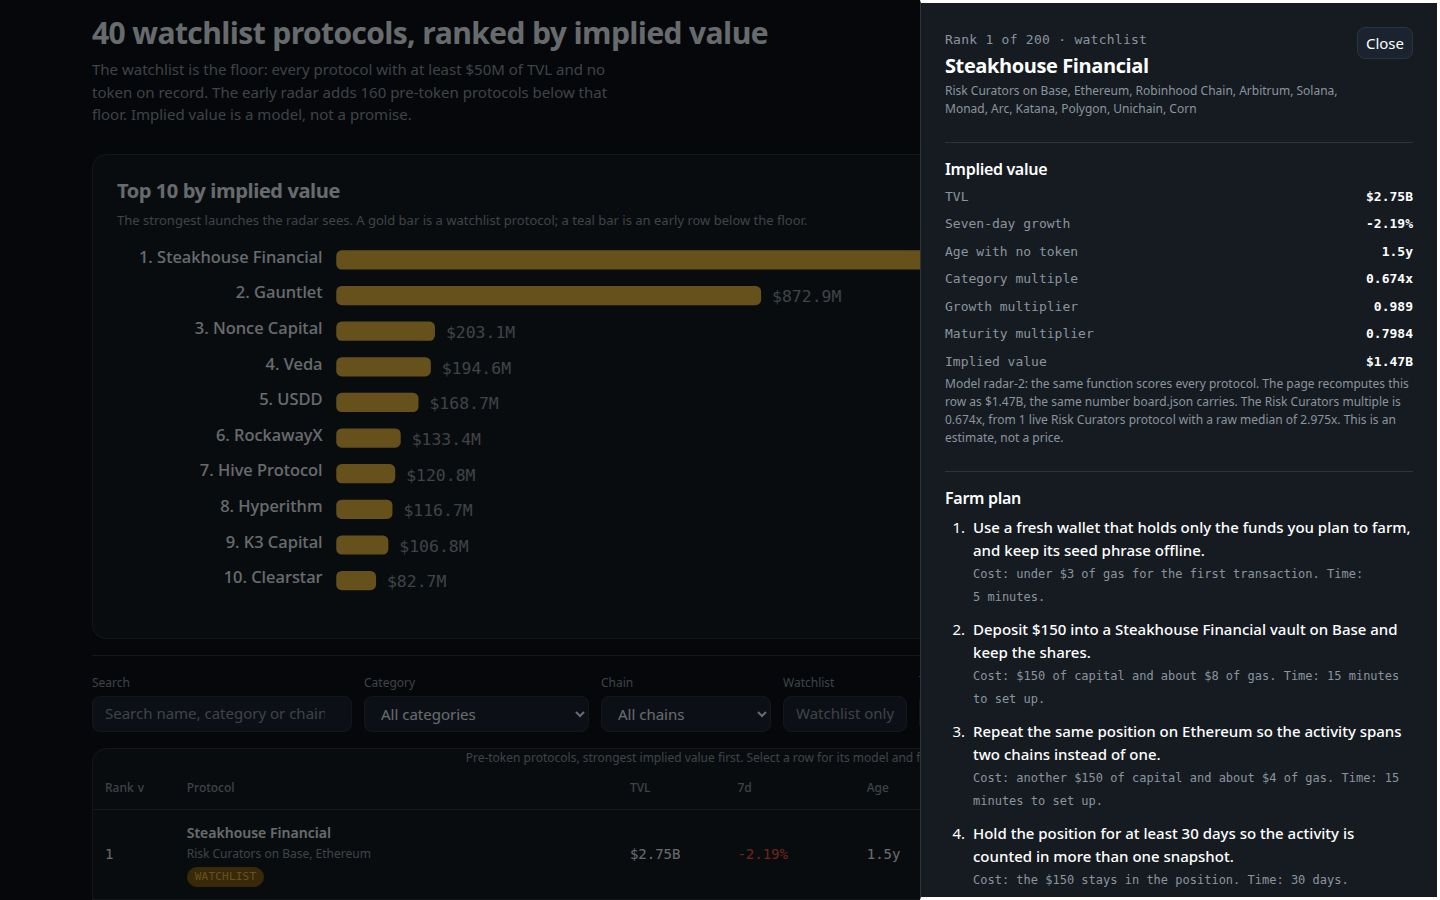
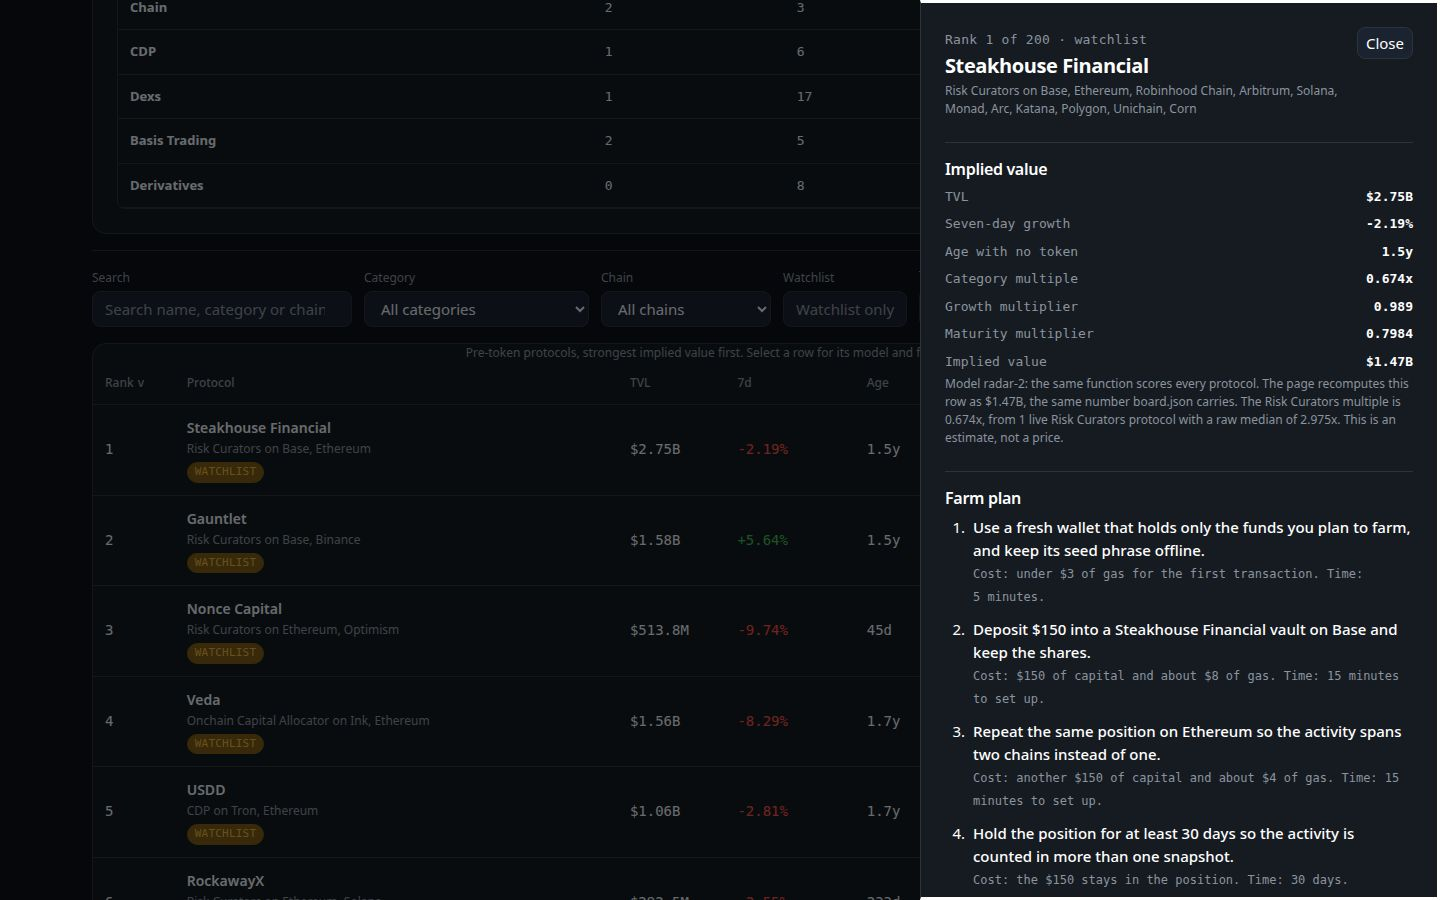
Add sector concentration summary, reading guidance, and methodology notes
- Dashboard: a 'Where the watchlist concentrates' sector table
  (watchlist/early counts and combined implied value per sector),
  and a 'Reading the board' note in the model panel on how to use
  the ranking and what it cannot promise.
- index.html rewritten with a description, dark color-scheme and
  a noscript fallback pointing at board.json.
- README: 'How to read the ranking' and 'Limitations' sections.

diff --git a/dashboard/app.js b/dashboard/app.js
@@ -231,6 +231,48 @@
     );
   }
 
+  // The watchlist, grouped by sector: how many of the forty sit in each category and what their
+  // launches would be worth together. A sector holding many watchlist rows and a large combined
+  // value is where the next launches concentrate, and where a single launch matters least alone.
+  function categorySummary() {
+    var byCat = {};
+    DATA.rows.forEach(function (r) {
+      var c = r.category || 'Other';
+      var entry = byCat[c] || (byCat[c] = { category: c, watchlist: 0, early: 0, value: 0 });
+      if (isWatchlist(r.slug)) entry.watchlist += 1;
+      else entry.early += 1;
+      entry.value += r.implied_value_usd;
+    });
+    var list = Object.keys(byCat).map(function (k) { return byCat[k]; })
+      .sort(function (a, b) { return b.value - a.value || (a.category < b.category ? -1 : 1); })
+      .slice(0, 8);
+    if (list.length === 0) return null;
+    var tbody = el('tbody');
+    list.forEach(function (e) {
+      tbody.appendChild(el('tr', null,
+        el('td', null, el('b', { text: e.category })),
+        el('td', { class: 'num', text: String(e.watchlist) }),
+        el('td', { class: 'num', text: String(e.early) }),
+        el('td', { class: 'num', text: fmtUsd(e.value) })
+      ));
+    });
+    return el('section', { class: 'panel chart-panel' },
+      el('h2', { text: 'Where the watchlist concentrates' }),
+      el('p', { class: 'sub', text: 'The eight sectors with the largest combined implied value. Watchlist is the forty; early is the rest of the board.' }),
+      el('div', { class: 'table-wrap compact' },
+        el('table', null,
+          el('thead', null, el('tr', null,
+            el('th', { scope: 'col', text: 'Sector' }),
+            el('th', { scope: 'col', text: 'Watchlist' }),
+            el('th', { scope: 'col', text: 'Early' }),
+            el('th', { scope: 'col', text: 'Combined implied value' })
+          )),
+          tbody
+        )
+      )
+    );
+  }
+
   function controls() {
     var categories = Array.from(new Set(DATA.rows.map(function (r) { return r.category || 'Other'; }))).sort();
     var chains = Array.from(new Set(DATA.rows.reduce(function (acc, r) { return acc.concat(r.chains || []); }, []))).sort();
@@ -388,7 +430,9 @@
         'implied = round( tvl_usd x category_multiple x (1 + clamp(change_7d, ' + m.growth_floor + ', ' + m.growth_cap + ') / 100 x ' + m.growth_weight + ') x (' + m.maturity_floor + ' + min(age_days, ' + m.maturity_days + ') / ' + m.maturity_days + ' x ' + m.maturity_range + ') )'
       ),
       el('p', { class: 'sub', text: 'The category multiple is the market\u2019s own valuation of the sector: the median market-cap-to-TVL ratio of the live protocols in that category, shrunk toward the global median of ' + fmtMult(DATA.global_median) + ' with ' + m.prior_strength + ' phantom protocols so a thin category cannot swing on one outlier, then clamped to ' + fmtMult(m.multiple_floor) + '–' + fmtMult(m.multiple_cap) + '. TVL and seven-day growth come from the snapshot. Age is the time since the protocol was first listed, the best record of how long it has run with no token; an unlisted age uses ' + m.unknown_age_days + ' days. The early radar is every pre-token protocol below the watchlist floor, by TVL, and the live-token protocols are set aside with their market caps shown.' }),
-      comparablesTable()
+      comparablesTable(),
+      el('h3', { text: 'Reading the board' }),
+      el('p', { class: 'sub', text: 'Treat the ranking as a watchlist, not a price target. A high implied value means the protocol is large, in a sector the market values richly, and has run a long time with no token: the three things that have to be true before a launch is worth farming. It does not mean a token is coming, and it does not say when. A protocol can sit high for months and never launch, and a small early row can launch first. What the board is good for is narrowing two hundred names to the dozen worth checking each week, and giving each of those a concrete farm plan with a cost and a hold time. Before farming any row, open the protocol itself and confirm it still has no token, that its points or rewards page is live, and that the position the plan asks for is one you understand. Never pay to claim, never bridge more than the plan states, and never farm from a wallet that holds funds you cannot lose.' })
     );
   }
 
@@ -446,7 +490,10 @@
     var shell = el('div', { class: 'shell' });
     shell.appendChild(header());
     shell.appendChild(lede());
-    if (state.tab === 'pre-token') shell.appendChild(topChart());
+    if (state.tab === 'pre-token') {
+      shell.appendChild(topChart());
+      shell.appendChild(categorySummary());
+    }
     shell.appendChild(controls());
     shell.appendChild(state.tab === 'pre-token' ? boardTable() : liveTable());
     if (state.tab === 'pre-token') shell.appendChild(modelPanel());

diff --git a/dashboard/index.html b/dashboard/index.html
@@ -3,12 +3,18 @@
 <head>
 <meta charset="utf-8">
 <meta name="viewport" content="width=device-width, initial-scale=1">
-<title>Token Radar: pre-token protocols ranked by implied value</title>
+<meta name="description" content="Token Radar ranks the pre-token protocols most worth watching, from a sealed snapshot of every protocol DefiLlama tracks, by what their launch would be worth.">
+<meta name="color-scheme" content="dark">
+<title>Token Radar — pre-token protocols ranked by implied value</title>
 <link rel="stylesheet" href="app.css">
 </head>
 <body>
-<a class="skip" href="#board">Skip to the board</a>
-<main id="board" tabindex="-1" aria-busy="true"></main>
+<a class="skip" href="#board">Skip to the ranked board</a>
+<main id="board" tabindex="-1" aria-busy="true">
+<noscript>
+<p>This radar is a page that renders from its own data file, so it needs JavaScript to draw the board. The ranked board itself is in board.json, beside this page.</p>
+</noscript>
+</main>
 <script src="../data.js"></script>
 <script src="app.js"></script>
 </body>

diff --git a/README.md b/README.md
@@ -50,6 +50,50 @@ implied        = max(1, round(base × growthMult × maturityMult))
 Each protocol also gets a **farm plan**: six steps derived from its own record (category, chains,
 TVL, age), each with a cost and a time — what to do, what it costs, how long to hold. No slogans.
 
+## How to read the ranking
+
+Start at the top and work down, but do not treat the order as a countdown. The board answers one
+question: if this protocol launched a token tomorrow, what would the market plausibly pay for it,
+given what it pays for live protocols in the same line of work. A rank near the top means three
+things line up at once: the protocol holds a lot of value, its sector trades richly against that
+value, and it has run for a long time without issuing a token. Any one of those alone is not
+enough, and the board will not rank a small protocol first just because its sector is hot, nor an
+old one first just because it has waited longest.
+
+The most useful way to use it is as a shortlist. Take the top dozen, open each protocol's own
+site, and check three things the snapshot cannot tell you: that it still has no token, that it
+runs a points or rewards program you can actually join, and that the position its farm plan asks
+for is one you understand and can unwind. If any of those fails, move on to the next row. The
+early rows below the watchlist floor are the same exercise with smaller numbers: they are where a
+launch can surprise, and where the cost of being wrong is lowest, because the positions are
+smaller.
+
+The sector table ("Where the watchlist concentrates") is the other half of the read. When one
+sector holds most of the forty and most of the combined value, the next launches are likely to
+come from that sector, and a single protocol's rank matters less than the sector's weight. When
+the value is spread evenly, the ranking itself carries more of the signal.
+
+## Limitations
+
+- **A launch is not promised.** Implied value is a valuation, not a forecast. A protocol can
+  rank first for a year and never issue a token, and nothing in the snapshot says it will.
+- **The snapshot is one day.** TVL, growth and the live comparables are all read from a single
+  sealed date. A protocol that grew fast the week before, or one whose sector re-rated after the
+  snapshot, will be scored on stale figures.
+- **TVL is not revenue.** A protocol can hold a lot of value while earning little, and the market
+  pays for earnings and growth, not for deposits alone. The category multiple captures some of
+  that — sectors that earn more trade richer — but it is a sector average, not a read of any one
+  protocol's books.
+- **Thin sectors are noisy.** A category with one live protocol sets its multiple from that one
+  name, shrunk toward the global median. The shrinkage keeps a single outlier from deciding the
+  sector, but a thin sector's multiple is still the least reliable number on the board. The
+  comparables table shows the comp count next to every multiple so you can see which ones to
+  trust least.
+- **The farm plans are generic by design.** They are derived from the protocol's category,
+  chains, size and age, not from reading its docs. They tell you the shape of a position and
+  what it costs, not the exact pool, vault or market to use. Always confirm the details on the
+  protocol's own pages before depositing.
+
 ## The dashboard
 
 `dashboard/` is a static page that renders with no network: `index.html`, `app.css`, `app.js`, plus
